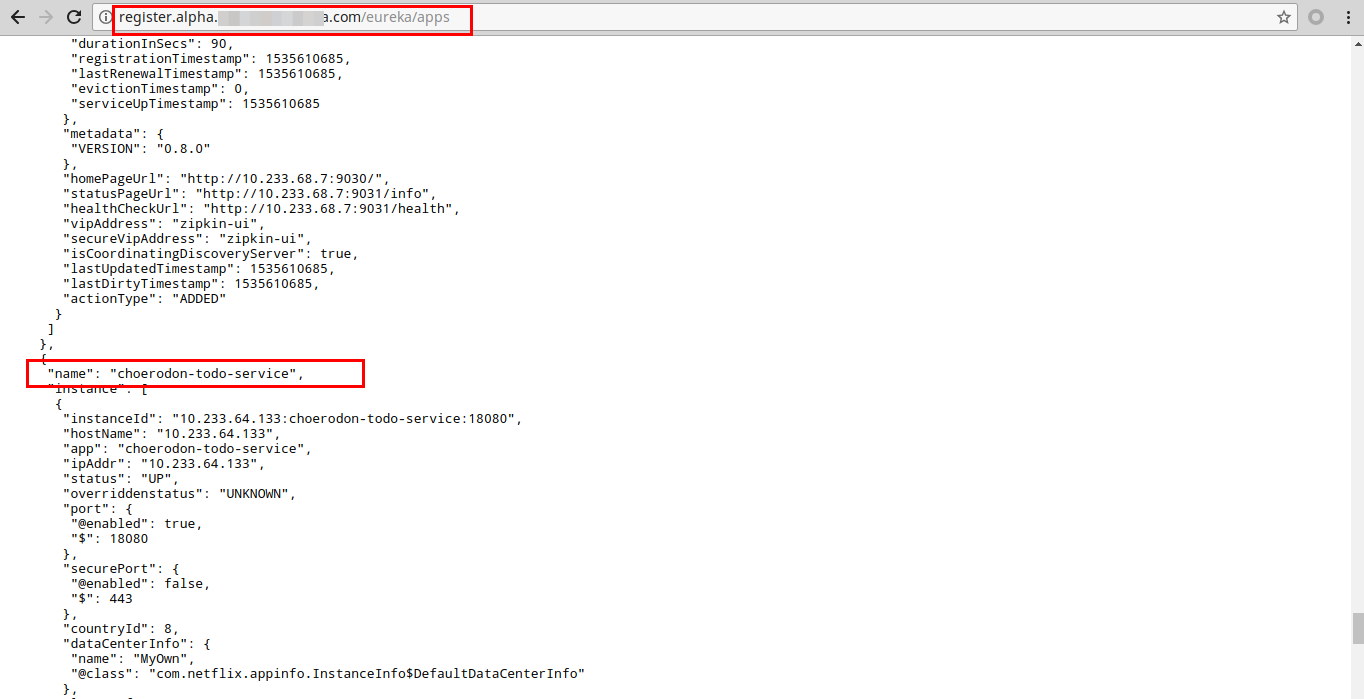
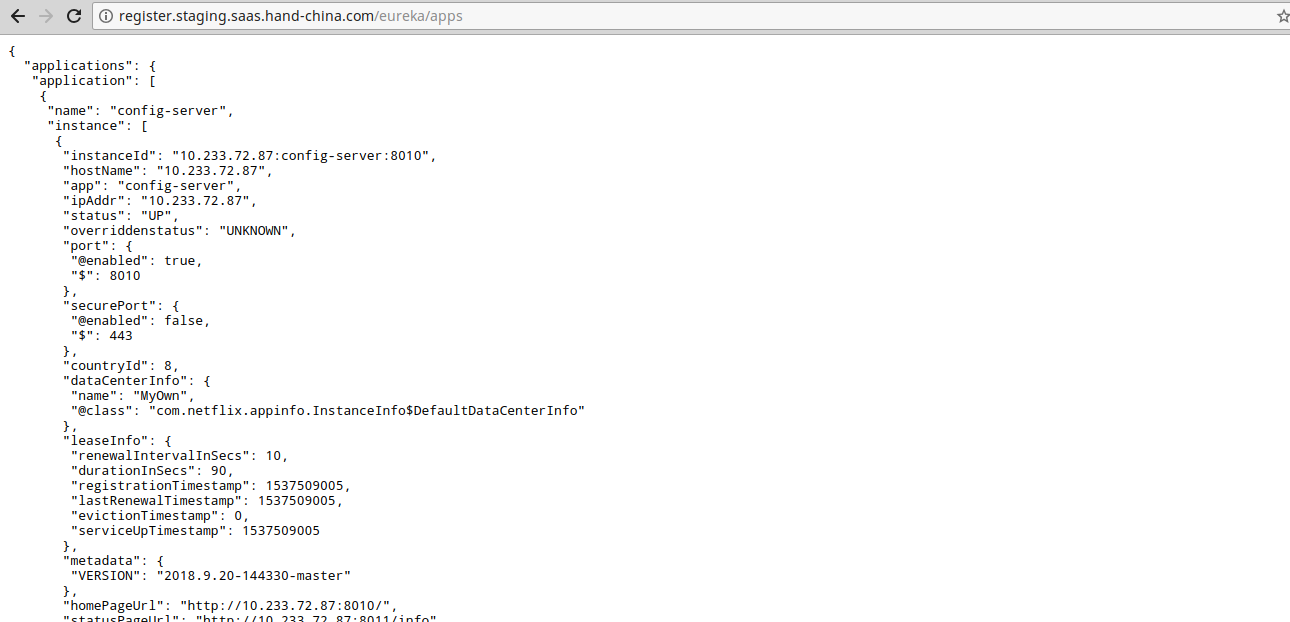
[FIX] fix the picture

Changed region(s): [[0.0, 0.0, 1.0, 1.0], [0.9922, 0.8553, 1.0, 0.9469]]

diff --git a/content/docs/quick-start/project-manager/microservice-backend.md b/content/docs/quick-start/project-manager/microservice-backend.md
@@ -154,8 +154,6 @@ $ git push origin feature-choerodon-dev-1
 
 在`开发流水线` -> `合并请求` 页面，选择应用`choerodon-todo-service`。点击`创建合并请求`，跳转到`Gitlab`。 分别选择源分支为`feature-1` ，目标分支为`master`。并提交合并请求。等待`ci流水线`通过后，点击合并分支。
 
-![](/docs/quick-start/image/merge_request2.png)
-
 当`master` 分支的`ci流水线` 通过以后。在`应用管理` -> `应用版本` 可以找到`choerodon-front-demo`生成的对应版本。接下来就可以部署了。
 
 ![](/docs/quick-start/image/version.png)
@@ -224,6 +222,8 @@ $ git push origin feature-choerodon-dev-1
 **第五步：** 等待实例重启结束，通过`xxxx/eureka/apps` 查看是否成功注册。`xxxx`为部署`register-server`时建的域名，详细见[一键部署](../../../installation-configuration/steps/choerodon/)或者[分布部署](../../../installation-configuration/steps/parts/)。
 
 ![](/docs/quick-start/image/regi-instances.png)
+ 
+确认是否正常注册成功，搜索是否存在choerodon-todo-service的记录，存在则表示注册成功
 
 **第六步：** 服务注册成功后，用平台管理员给该服务添加路由，路径为点击管理->微服务管理->路由管理，将其api暴露在swagger上,创建为路由之后，您就可以在swagger-ui访问服务的api。swagger-ui前缀为gateway地址，具体值详见[一键部署](../../../installation-configuration/steps/choerodon/)或者[分布部署](../../../installation-configuration/steps/parts/)。
 
